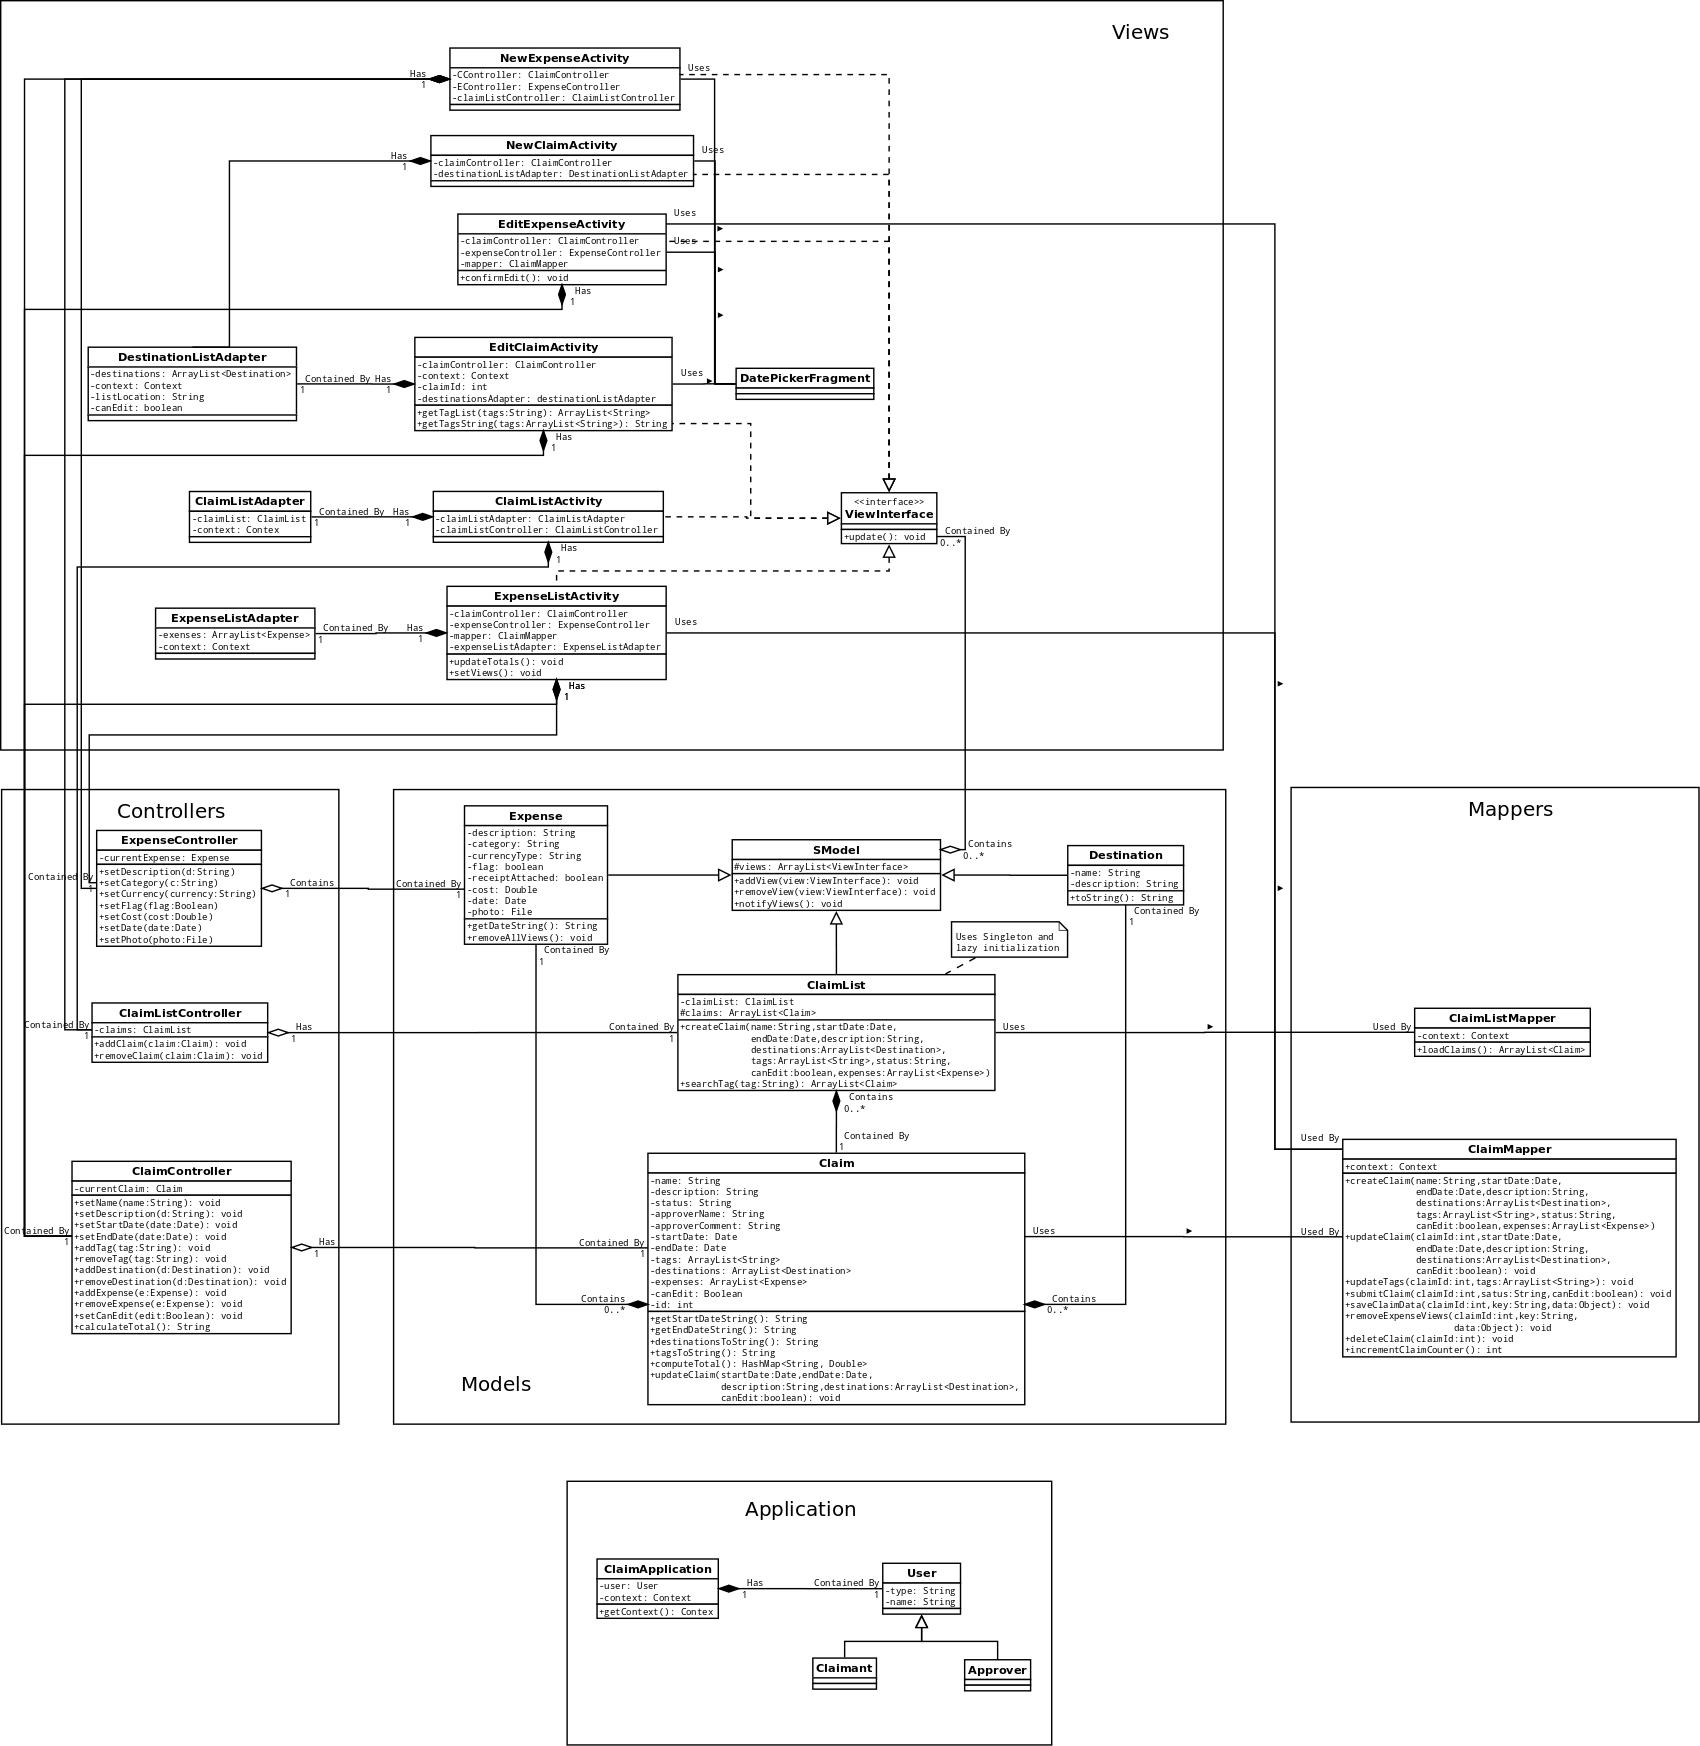
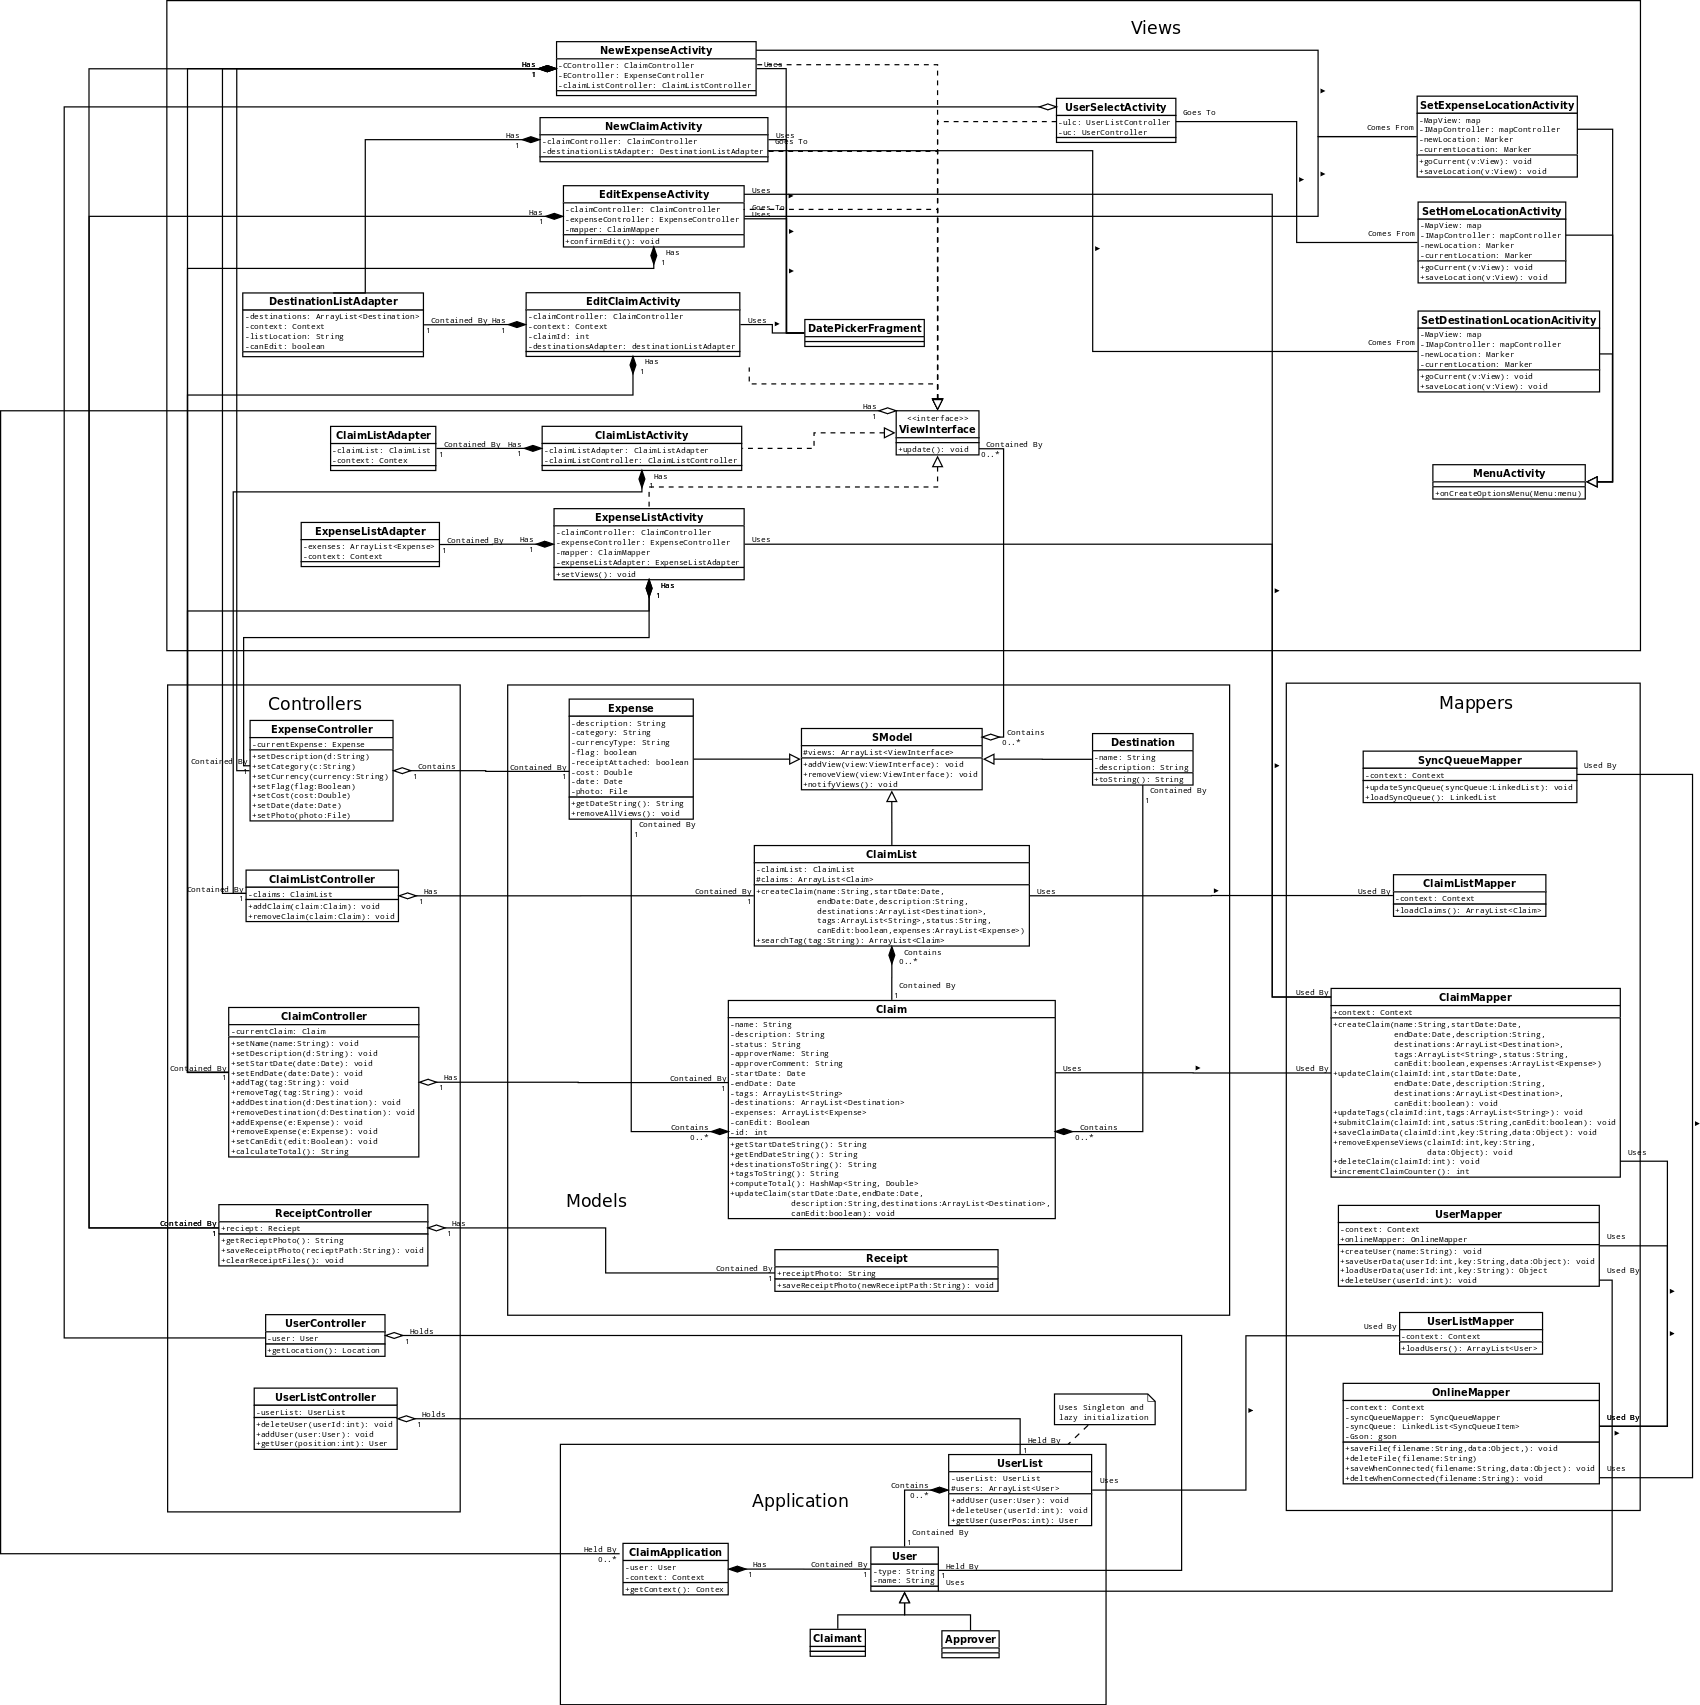
Updated UML diagam Added demo storyboard

diff --git a/ScandalouTravelTracker/ScandalouTravelTracker/src/ca/ualberta/cs/scandaloutraveltracker/views/EditExpenseActivity.java b/ScandalouTravelTracker/ScandalouTravelTracker/src/ca/ualberta/cs/scandaloutraveltracker/views/EditExpenseActivity.java
@@ -32,15 +32,12 @@ import android.app.DialogFragment;
 import android.content.Context;
 import android.content.DialogInterface;
 import android.content.Intent;
-import android.graphics.Bitmap;
-import android.graphics.BitmapFactory;
 import android.location.Location;
 import android.location.LocationManager;
 import android.net.Uri;
 import android.os.Bundle;
 import android.os.Environment;
 import android.provider.MediaStore;
-import android.util.Base64;
 import android.view.Menu;
 import android.view.MenuItem;
 import android.view.MotionEvent;
@@ -572,12 +569,7 @@ public class EditExpenseActivity extends Activity implements ViewInterface {
 		
 		if (receiptController.getReceiptPhoto() != null) {
 			
-			// Get the receipt photo
-			byte[] decodedString = Base64.decode(receiptController.getReceiptPhoto(), Base64.DEFAULT);
-			Bitmap decodedByte = BitmapFactory.decodeByteArray(decodedString, 0, decodedString.length);
-			
 			// Update the receipt area
-			receiptThumbnail.setImageBitmap(decodedByte);
 			addReceiptText.setText("View Attached Receipt");
 			deleteReceiptButton.setVisibility(View.VISIBLE);
 			receiptThumbnail.setClickable(true);
@@ -586,7 +578,6 @@ public class EditExpenseActivity extends Activity implements ViewInterface {
 			
 			// Reset the receipt area 
 			// http://stackoverflow.com/questions/8642823/using-setimagedrawable-dynamically-to-set-image-in-an-imageview, 2015-03-28
-			receiptThumbnail.setImageDrawable(null);
 			addReceiptText.setText("No Receipt Attached");
 			deleteReceiptButton.setVisibility(View.INVISIBLE);
 			receiptThumbnail.setClickable(false);

diff --git a/ScandalouTravelTracker/ScandalouTravelTracker/src/ca/ualberta/cs/scandaloutraveltracker/views/NewExpenseActivity.java b/ScandalouTravelTracker/ScandalouTravelTracker/src/ca/ualberta/cs/scandaloutraveltracker/views/NewExpenseActivity.java
@@ -29,15 +29,12 @@ import android.app.DialogFragment;
 import android.content.Context;
 import android.content.DialogInterface;
 import android.content.Intent;
-import android.graphics.Bitmap;
-import android.graphics.BitmapFactory;
 import android.location.Location;
 import android.location.LocationManager;
 import android.net.Uri;
 import android.os.Bundle;
 import android.os.Environment;
 import android.provider.MediaStore;
-import android.util.Base64;
 import android.view.Menu;
 import android.view.MenuItem;
 import android.view.View;
@@ -426,12 +423,7 @@ public class NewExpenseActivity extends Activity implements ViewInterface {
 		
 		if (receiptController.getReceiptPhoto() != null) {
 			
-			// Get the receipt photo
-			byte[] decodedString = Base64.decode(receiptController.getReceiptPhoto(), Base64.DEFAULT);
-			Bitmap decodedByte = BitmapFactory.decodeByteArray(decodedString, 0, decodedString.length);
-			
 			// Update the receipt area
-			receiptThumbnail.setImageBitmap(decodedByte);
 			addReceiptText.setText("View Attached Receipt");
 			deleteReceiptButton.setVisibility(View.VISIBLE);
 			receiptThumbnail.setClickable(true);
